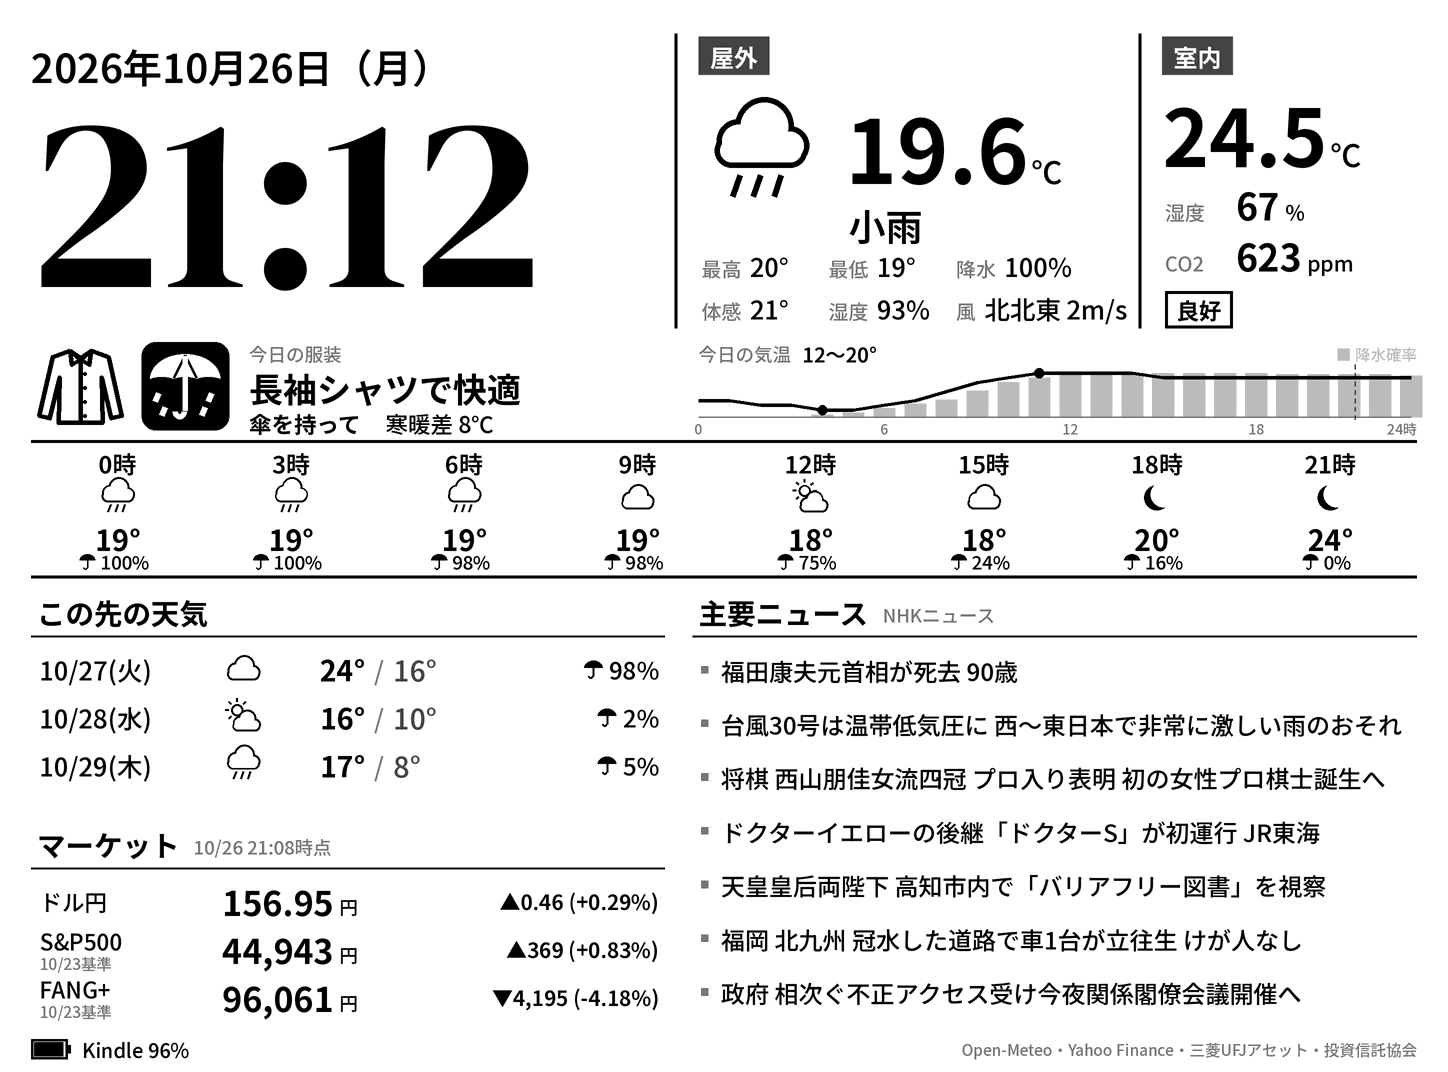
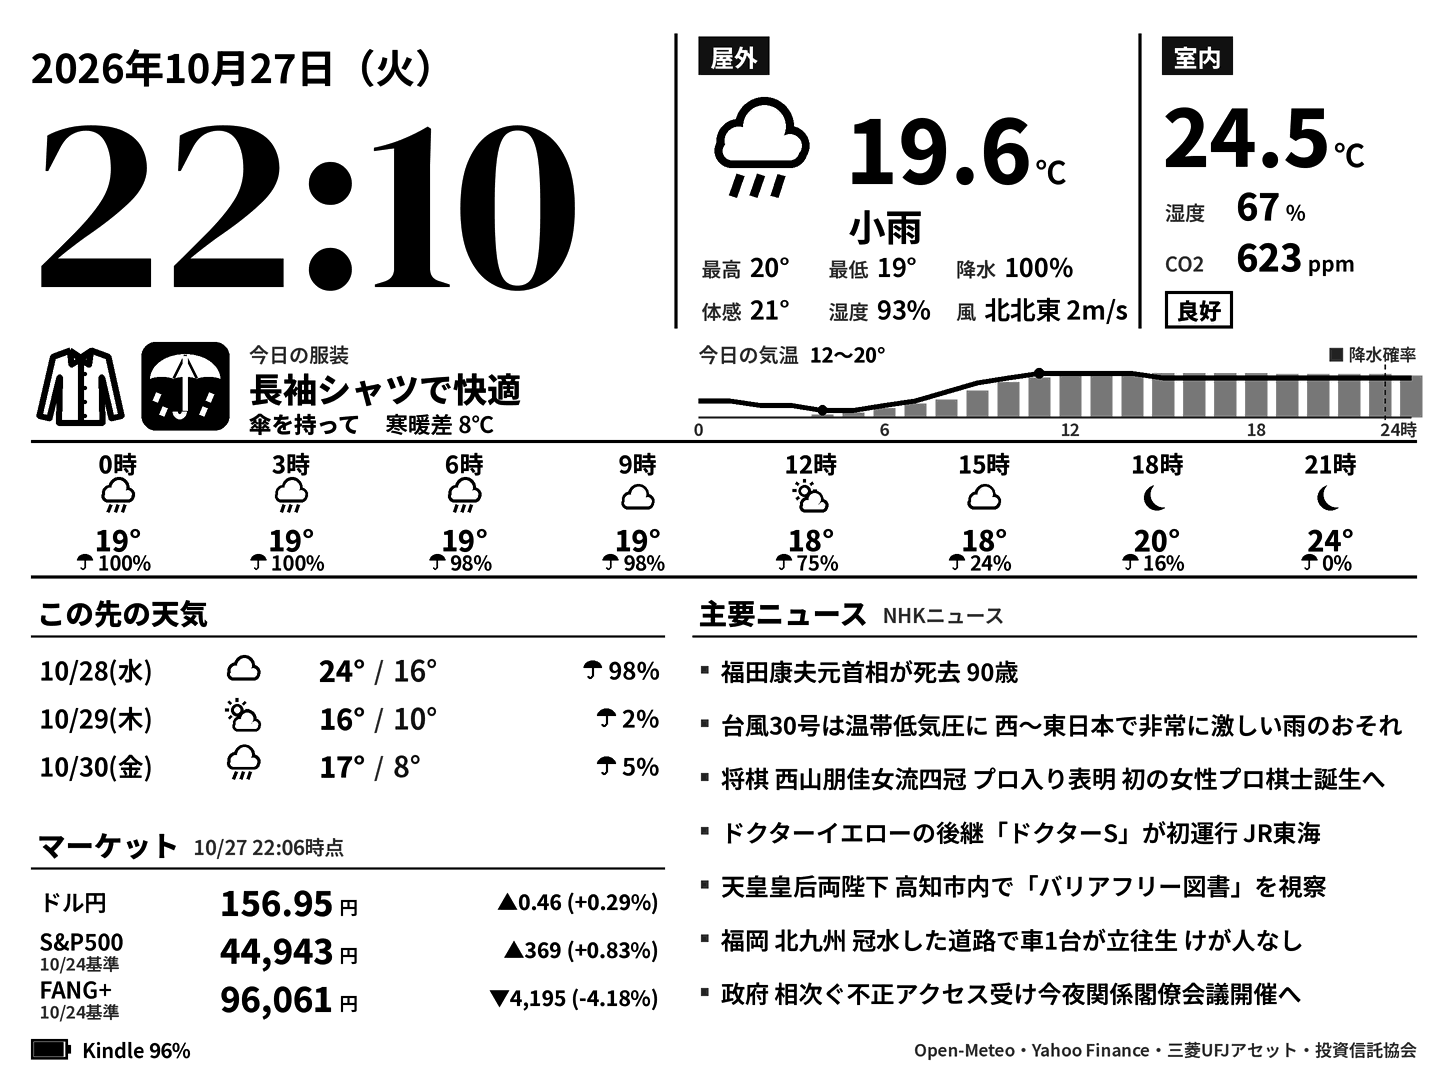
kindle_dashboard: make text darker and bolder for e-ink
On the real Kindle, grey text was unreadable and strokes looked thin.

- Darker palette (GRAY 68, LIGHT 153) and gamma 1.4 on output
- Fonts one weight heavier by default (font_weight_boost)
- Enlarge the smallest labels; thicker icon and chart strokes

Claude-Session: https://claude.ai/code/session_01U5J8BxMP2MPkhSzA51AjtL

diff --git a/kindle_dashboard/server/dashboard/render.py b/kindle_dashboard/server/dashboard/render.py
@@ -18,7 +18,9 @@ from . import gcal
 from .gcal import Event
 from .sources import Indoor, Quote, Weather, co2_level, icon_kind, weather_label, wind_direction_ja
 
-BLACK, DARK, GRAY, LIGHT, WHITE = 0, 68, 119, 187, 255
+# E-ink は中間色が薄く出るので、灰色は濃いめにしておく（文字に使う GRAY でもはっきり読める濃さ）
+BLACK, DARK, GRAY, LIGHT, WHITE = 0, 34, 68, 153, 255
+WEIGHTS = ["Thin", "ExtraLight", "Light", "Regular", "Medium", "SemiBold", "Bold", "ExtraBold", "Black"]
 WEEKDAYS = "月火水木金土日"
 
 FONT_CANDIDATES = [
@@ -51,7 +53,8 @@ class Fonts:
     """サイズ・太さごとのフォントをキャッシュする。可変フォントなら太さを切り替える。"""
 
     def __init__(self, path: str | None = None, base_dir: Path | None = None,
-                 clock: dict | None = None):
+                 clock: dict | None = None, weight_boost: int = 0):
+        self.weight_boost = weight_boost  # 指定した太さより何段階太くするか（E-ink 向け）
         candidates = ([path] if path else []) + FONT_CANDIDATES
         base = base_dir or Path.cwd()
         self._clock_path = None
@@ -72,6 +75,8 @@ class Fonts:
         self._cache: dict[tuple[int, str], ImageFont.FreeTypeFont] = {}
 
     def get(self, size: int, weight: str = "Regular") -> ImageFont.FreeTypeFont:
+        if self.weight_boost and weight in WEIGHTS:
+            weight = WEIGHTS[min(len(WEIGHTS) - 1, WEIGHTS.index(weight) + self.weight_boost)]
         key = (size, weight)
         if key not in self._cache:
             font = ImageFont.truetype(self.path, size)
@@ -266,7 +271,7 @@ def draw_clothing(c: Canvas, w: Weather | None):
     if rain:
         c.umbrella_badge(x - 6, top + 4, 62)
         x += 70
-    c.text(x, top + 12, f"{cl.day_label}の服装", 13, "Medium", fill=GRAY, anchor="lm")
+    c.text(x, top + 12, f"{cl.day_label}の服装", 14, "Medium", fill=GRAY, anchor="lm")
     c.text(x, top + 36, cl.phrase, 24, "Bold", anchor="lm")
 
     # ひとこと（傘は太字で先頭に）。入りきらないものは後ろから省く
@@ -291,9 +296,9 @@ def draw_temp_chart(c: Canvas, w: Weather | None, now: datetime):
     x0, x1, y0, y1 = CHART_X0, c.w - M - 4, 264, 290  # 折れ線の範囲（y0 が上）
     base = y1 + 5  # 降水確率の棒の底・目盛りの線
     temps = [p.temperature for p in hours]
-    cw = c.text(x0, 250, f"{w.day_label}の気温", 13, "Medium", fill=GRAY, anchor="lm")
+    cw = c.text(x0, 250, f"{w.day_label}の気温", 14, "Medium", fill=GRAY, anchor="lm")
     c.text(x0 + cw + 8, 250, f"{round(min(temps))}〜{round(max(temps))}°", 14, "SemiBold", anchor="lm")
-    c.text(x1 + 4, 250, "■ 降水確率", 11, "Medium", fill=LIGHT, anchor="rm")
+    c.text(x1 + 4, 250, "■ 降水確率", 12, "Medium", fill=GRAY, anchor="rm")
 
     lo, hi = min(temps), max(temps)
     pad = max(0.0, 4 - (hi - lo)) / 2  # 変化が小さい日も平らに見えすぎないように
@@ -310,10 +315,10 @@ def draw_temp_chart(c: Canvas, w: Weather | None, now: datetime):
         if p.precip_prob:
             h = (base - y0) * p.precip_prob / 100
             c.rect(px(p.time.hour) - bar / 2, base - h, px(p.time.hour) + bar / 2, base, fill=LIGHT)
-    c.line(x0, base, x1, base, 1, fill=GRAY)
+    c.line(x0, base, x1, base, 1.5, fill=GRAY)
     for h in (0, 6, 12, 18):
-        c.text(px(h), base + 8, str(h), 10, "Medium", fill=GRAY, anchor="mm")
-    c.text(x1 + 4, base + 8, "24時", 10, "Medium", fill=GRAY, anchor="rm")
+        c.text(px(h), base + 8, str(h), 12, "Medium", fill=GRAY, anchor="mm")
+    c.text(x1 + 4, base + 8, "24時", 12, "Medium", fill=GRAY, anchor="rm")
 
     if w.day_label == "今日":  # 現在時刻の縦線
         nx = px(now.hour + now.minute / 60)
@@ -322,7 +327,7 @@ def draw_temp_chart(c: Canvas, w: Weather | None, now: datetime):
 
     pts = [(px(p.time.hour), py(p.temperature)) for p in hours]
     for a, b in zip(pts, pts[1:]):
-        c.line(*a, *b, 2.5)
+        c.line(*a, *b, 3.5)
 
     # 最高・最低の位置に点
     for i in (temps.index(max(temps)), temps.index(min(temps))):
@@ -347,15 +352,15 @@ def draw_hourly(c: Canvas, w: Weather | None):
         c.text(cx, 366, _deg(s.temperature), 20, "Bold", anchor="ma")
         if s.precip_prob is not None:
             label = f"{s.precip_prob}%"
-            tw = c.text_width(label, 13, "Medium")
+            tw = c.text_width(label, 14, "Medium")
             c.umbrella(cx - tw / 2 - 4, 397, 11)
-            c.text(cx - tw / 2 + 5, 397, label, 13, "Medium", anchor="lm")
+            c.text(cx - tw / 2 + 5, 397, label, 14, "Medium", anchor="lm")
 
 
 def draw_heading(c: Canvas, x0, x1, y, title, sub=""):
     tw = c.text(x0 + 4, y, title, 20, "Bold")
     if sub:
-        c.text(x0 + 4 + tw + 10, y + 7, sub, 13, "Medium", fill=GRAY)
+        c.text(x0 + 4 + tw + 10, y + 6, sub, 14, "Medium", fill=GRAY)
     c.line(x0, y + 32, x1, y + 32, 1.5)
 
 
@@ -400,7 +405,7 @@ def draw_market(c: Canvas, quotes: list[Quote | str]):
             continue
         if q.as_of:  # 投資信託は基準日をラベルの下に出す
             c.text(x0 + 6, mid - 6, q.label, 16, "Medium", anchor="lm")
-            c.text(x0 + 6, mid + 10, f"{q.as_of.month}/{q.as_of.day}基準", 11, "Medium", fill=GRAY, anchor="lm")
+            c.text(x0 + 6, mid + 10, f"{q.as_of.month}/{q.as_of.day}基準", 12, "Medium", fill=GRAY, anchor="lm")
         else:
             c.text(x0 + 6, mid, q.label, 16, "Medium", anchor="lm")
         c.text(value_right, mid, _num(q.price, q.decimals), 24, "Bold", anchor="rm")
@@ -433,7 +438,7 @@ def draw_month(c: Canvas, events: list[Event], now: datetime, week_start: str = 
     head_y = y + 46
     for i, name in enumerate(names):
         weekend = name in "日土"
-        c.text(x0 + cw * i + cw / 2, head_y, name, 12, "Bold" if weekend else "Medium",
+        c.text(x0 + cw * i + cw / 2, head_y, name, 13, "Bold" if weekend else "Medium",
                fill=BLACK if weekend else GRAY, anchor="mm")
 
     top, bottom = head_y + 10, 722
@@ -441,7 +446,7 @@ def draw_month(c: Canvas, events: list[Event], now: datetime, week_start: str = 
     line_h, size = 14, 11.5
     for r, week in enumerate(grid):
         ry = top + r * rh
-        c.line(x0, ry, x1, ry, 1, fill=LIGHT)
+        c.line(x0, ry, x1, ry, 1.5, fill=LIGHT)
         for i, day in enumerate(week):
             cx = x0 + i * cw
             in_month = day.month == now.month
@@ -464,7 +469,7 @@ def draw_month(c: Canvas, events: list[Event], now: datetime, week_start: str = 
                     c.rect(cx + 2, ey - line_h / 2 + 1, cx + cw - 2, ey + line_h / 2 - 1, fill=LIGHT)
                 c.text(cx + 4, ey, c.fit(ev.title, size, "Medium", cw - 8), size, "Medium", fill=fill, anchor="lm")
             if len(todays) > len(shown):  # 入りきらない件数は日付の右に
-                c.text(cx + cw - 4, ry + 11, f"+{len(todays) - len(shown)}", 11, "Bold", fill=GRAY, anchor="rm")
+                c.text(cx + cw - 4, ry + 11, f"+{len(todays) - len(shown)}", 12, "Bold", fill=GRAY, anchor="rm")
 
 
 def draw_footer(c: Canvas, data: DashboardData):
@@ -476,7 +481,7 @@ def draw_footer(c: Canvas, data: DashboardData):
     if data.failing:
         status += "　※取得失敗: " + "・".join(data.failing)
     c.text(M + 36, y, status, 14, "Medium", anchor="lm")
-    c.text(c.w - M, y, data.credits, 11, "Medium", fill=GRAY, anchor="rm")
+    c.text(c.w - M, y, data.credits, 12, "Medium", fill=GRAY, anchor="rm")
 
 
 def render(data: DashboardData, fonts: Fonts, width: int = LAYOUT_W, height: int = LAYOUT_H) -> Image.Image:
@@ -503,9 +508,12 @@ def render(data: DashboardData, fonts: Fonts, width: int = LAYOUT_W, height: int
     return c.finish()
 
 
-def to_kindle(img: Image.Image, rotate: int) -> Image.Image:
-    """16 階調に丸め、時計回りに rotate 度回転した Kindle 用画像にする。"""
-    img = img.convert("L").point(lambda v: round(v / 17) * 17)
+def to_kindle(img: Image.Image, rotate: int, gamma: float = 1.0) -> Image.Image:
+    """濃さを補正して 16 階調に丸め、時計回りに rotate 度回転した Kindle 用画像にする。
+
+    gamma > 1 で中間色を濃くする（E-ink で文字の輪郭や灰色が飛ばないように）。
+    """
+    img = img.convert("L").point(lambda v: round(255 * (v / 255) ** gamma / 17) * 17)
     transpose = {90: Image.Transpose.ROTATE_270, 180: Image.Transpose.ROTATE_180,
                  270: Image.Transpose.ROTATE_90}
     return img.transpose(transpose[rotate]) if rotate in transpose else img

diff --git a/kindle_dashboard/server/dashboard/app.py b/kindle_dashboard/server/dashboard/app.py
@@ -25,7 +25,10 @@ DEFAULT_CONFIG = {
     "location": {"name": "東京", "latitude": 35.6812, "longitude": 139.7671},
     "timezone": "Asia/Tokyo",
     # 横置きの画面サイズ（Kindle Paperwhite 第7世代 = 1448x1072）。rotate で縦の画面向きに回す
-    "display": {"width": 1448, "height": 1072, "rotate": 90},
+    # gamma: 中間色を濃くする補正（E-ink 向け, 1.0 で補正なし）
+    "display": {"width": 1448, "height": 1072, "rotate": 90, "gamma": 1.4},
+    # 文字を指定より何段階太くするか（E-ink 向け。0 で元の太さ）
+    "font_weight_boost": 1,
     "font_path": None,
     # 時計の数字のフォント（fonts/ 内のファイル名と太さ）。候補は README 参照
     "clock": {"font": "DMSerifDisplay-Regular.ttf"},
@@ -110,7 +113,7 @@ class Dashboard:
         d = self.cfg["display"]
         with self._lock:
             img = render(self.data(), self.fonts, d["width"], d["height"])
-            img = to_kindle(img, d["rotate"] if rotate else 0)
+            img = to_kindle(img, d["rotate"] if rotate else 0, d.get("gamma", 1.0))
             return png_bytes(img)
 
 

diff --git a/kindle_dashboard/server/serve.py b/kindle_dashboard/server/serve.py
@@ -59,8 +59,9 @@ def cmd_render(cfg: dict, fonts: Fonts, demo: bool, out: Path, at: str | None = 
     d = cfg["display"]
     img = render(data, fonts, d["width"], d["height"])
     out.mkdir(parents=True, exist_ok=True)
-    (out / "preview.png").write_bytes(png_bytes(to_kindle(img, 0)))
-    (out / "dash.png").write_bytes(png_bytes(to_kindle(img, d["rotate"])))
+    gamma = d.get("gamma", 1.0)
+    (out / "preview.png").write_bytes(png_bytes(to_kindle(img, 0, gamma)))
+    (out / "dash.png").write_bytes(png_bytes(to_kindle(img, d["rotate"], gamma)))
     print(f"書き出しました: {out / 'preview.png'}, {out / 'dash.png'}")
 
 
@@ -77,7 +78,7 @@ def main(argv: list[str] | None = None) -> int:
 
     logging.basicConfig(level=logging.INFO, format="%(asctime)s %(levelname)s %(message)s")
     cfg = load_config(args.config)
-    fonts = Fonts(cfg.get("font_path"), SERVER_DIR, cfg.get("clock"))
+    fonts = Fonts(cfg.get("font_path"), SERVER_DIR, cfg.get("clock"), cfg.get("font_weight_boost", 0))
 
     if args.cmd == "render":
         cmd_render(cfg, fonts, args.demo, args.out, args.at)

diff --git a/kindle_dashboard/server/tests/test_render_and_server.py b/kindle_dashboard/server/tests/test_render_and_server.py
@@ -198,3 +198,19 @@ def test_render_scales_layout_to_screen(fonts, size):
     w, h = size
     col = img.crop((round(w * 0.97), 0, w, h))
     assert col.getextrema()[0] < 128
+
+
+def test_gamma_darkens_midtones():
+    img = Image.new("L", (3, 1))
+    img.putdata([0, 153, 255])
+    plain, dark = to_kindle(img, 0, 1.0), to_kindle(img, 0, 1.4)
+    assert list(dark.getdata())[0] == 0 and list(dark.getdata())[2] == 255  # 白黒はそのまま
+    assert list(dark.getdata())[1] < list(plain.getdata())[1]               # 中間色だけ濃く
+
+
+def test_font_weight_boost():
+    plain = Fonts(None, SERVER_DIR)
+    bold = Fonts(None, SERVER_DIR, weight_boost=1)
+    # 1 段階太い = Medium を頼むと SemiBold になる → 同じ文字列でも幅が広い
+    assert bold.get(40, "Medium").getlength("見やすさ") >= plain.get(40, "SemiBold").getlength("見やすさ") - 1
+    assert bold.get(40, "Black").getlength("A") == plain.get(40, "Black").getlength("A")  # 上限で止まる

diff --git a/kindle_dashboard/server/dashboard/icons.py b/kindle_dashboard/server/dashboard/icons.py
@@ -55,7 +55,7 @@ def moon(draw, cx: float, cy: float, r: float, w: float, fg=BLACK, bg=WHITE) -> 
 def weather(draw, kind: str, cx: float, cy: float, s: float, is_day: bool = True,
             fg=BLACK, bg=WHITE) -> None:
     """中心 (cx, cy)・大きさ s の天気アイコン。"""
-    w = max(1.5, s * 0.045)
+    w = max(2, s * 0.065)
     x, y = cx - s / 2, cy - s / 2
 
     if kind == "clear":
@@ -151,7 +151,7 @@ GARMENTS = {90: "tank", 80: "tshirt", 70: "cardigan", 60: "shirt", 50: "sweater"
 
 def garment(draw, kind: str, x: float, y: float, s: float, fg=BLACK, bg=WHITE, shade=187) -> None:
     """(x, y) を左上とする一辺 s の枠に服のイラストを描く。"""
-    w = max(2, round(s * 0.05))
+    w = max(2, round(s * 0.07))
 
     def P(pts):
         return [(x + px * s, y + py * s) for px, py in pts]
